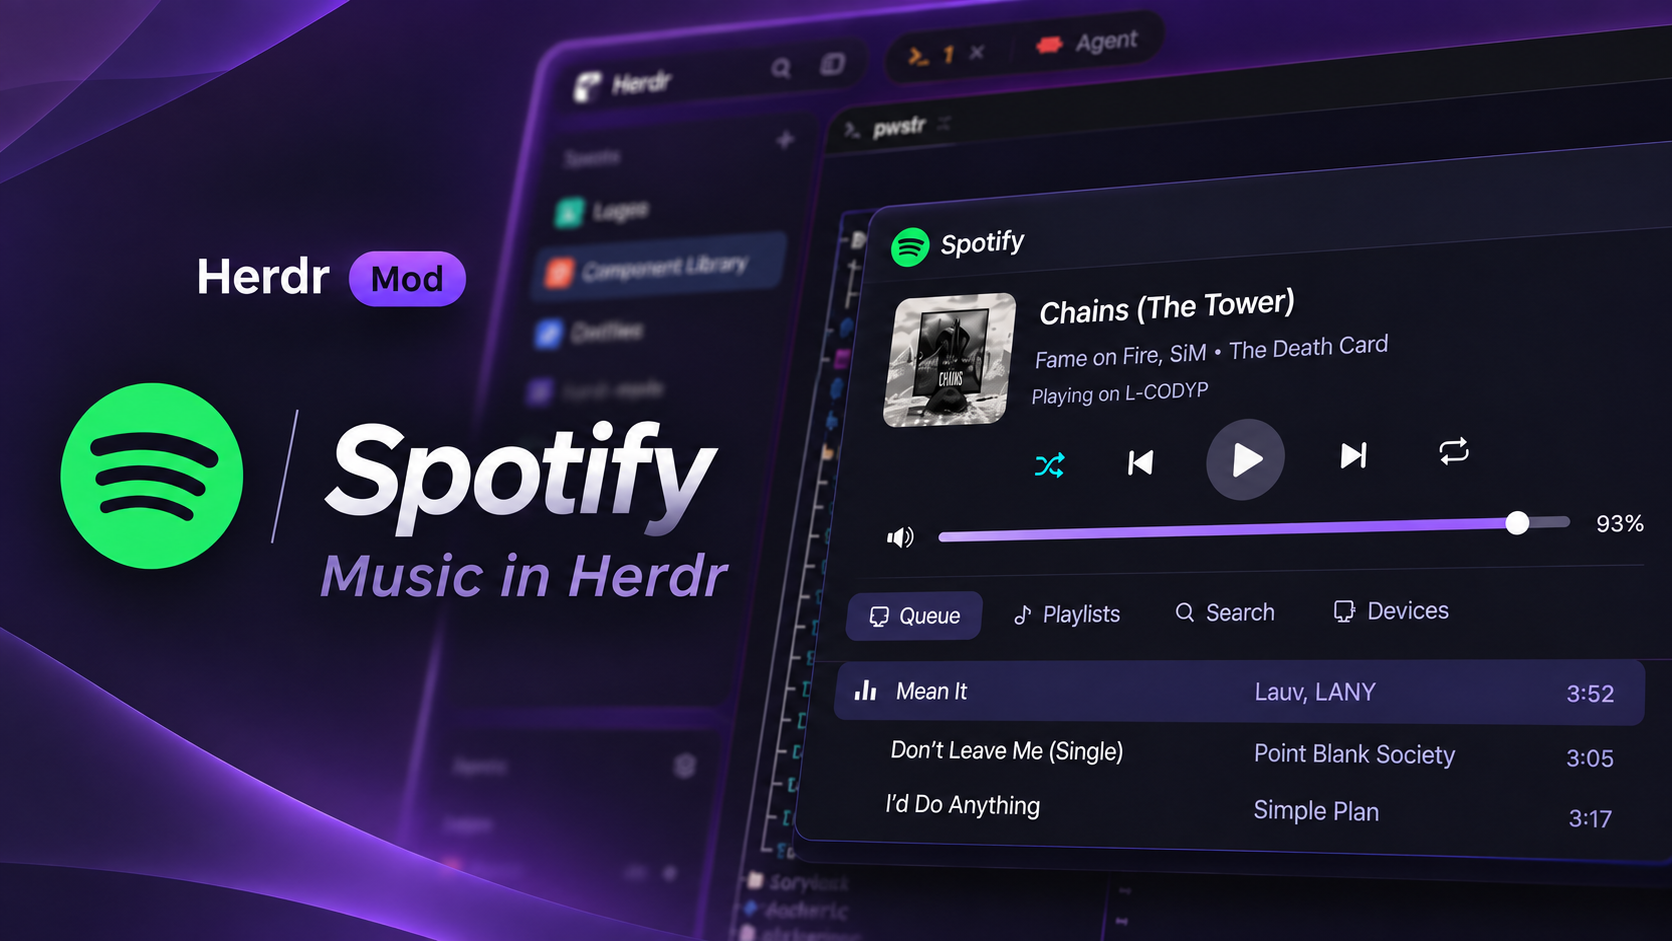
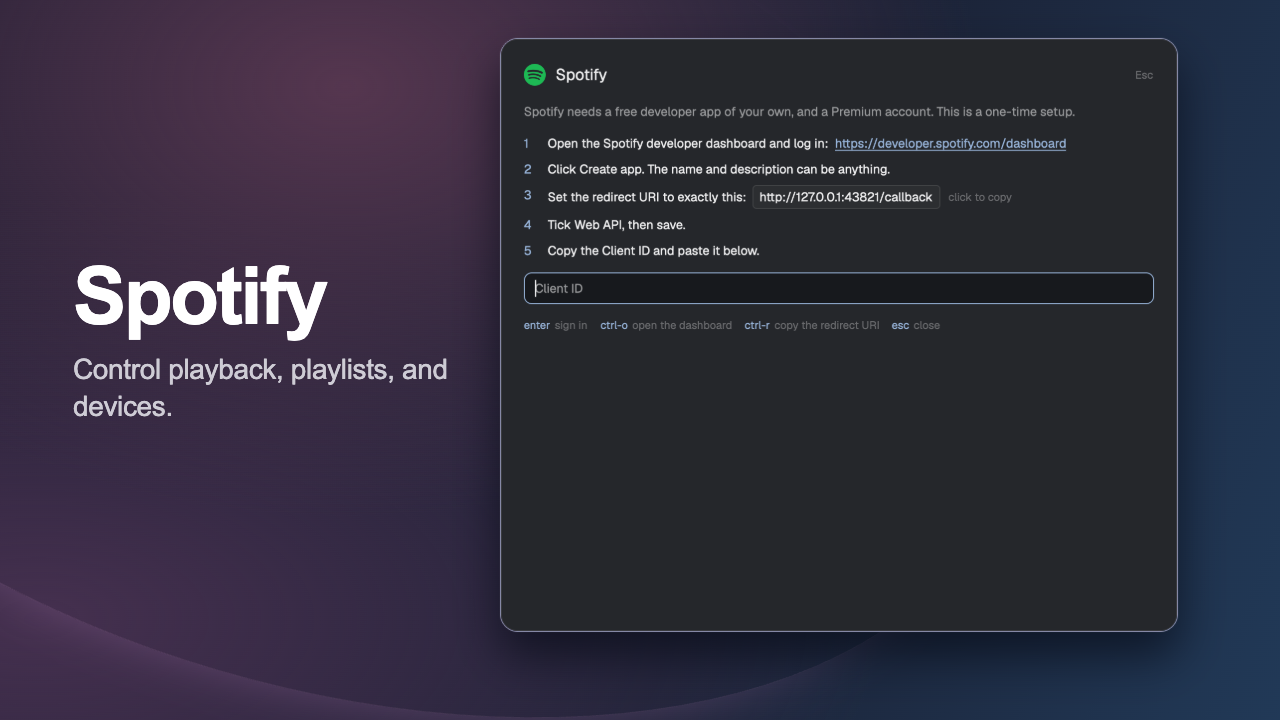
Standardize mod gallery thumbnails using approved reference

diff --git a/gallery/index.html b/gallery/index.html
@@ -1,0 +1,1 @@
+<!doctype html><html lang="en"><meta charset="utf-8"><title>Gallery thumbnail review</title><style>body{margin:32px;background:#101522;color:#eee;font:16px Arial}main{display:grid;grid-template-columns:repeat(2,minmax(0,1fr));gap:24px}a{color:inherit;text-decoration:none}img{width:100%;display:block;border-radius:10px}span{display:block;padding:10px 0}@media(max-width:800px){main{grid-template-columns:1fr}}</style><h1>Gallery thumbnail review</h1><p>1280 × 720. Click any preview to inspect its full size. Git Good and Branch are unchanged.</p><main><a href="../jump/thumbnail.png"><img src="../jump/thumbnail.png" alt="Jump"><span>Jump</span></a><a href="../run/thumbnail.png"><img src="../run/thumbnail.png" alt="Run"><span>Run</span></a><a href="../islands/thumbnail.png"><img src="../islands/thumbnail.png" alt="Islands"><span>Islands</span></a><a href="../tourist/thumbnail.png"><img src="../tourist/thumbnail.png" alt="Tourist"><span>Tourist</span></a><a href="../zen/thumbnail.png"><img src="../zen/thumbnail.png" alt="Zen"><span>Zen</span></a><a href="../spotify/thumbnail.png"><img src="../spotify/thumbnail.png" alt="Spotify"><span>Spotify</span></a><a href="../portal/thumbnail.png"><img src="../portal/thumbnail.png" alt="Portal"><span>Portal</span></a><a href="../syntax/thumbnail.png"><img src="../syntax/thumbnail.png" alt="Practice Range"><span>Practice Range</span></a><a href="../tutor/thumbnail.png"><img src="../tutor/thumbnail.png" alt="Tutor"><span>Tutor</span></a><a href="../vim-docs/thumbnail.png"><img src="../vim-docs/thumbnail.png" alt="Vim Docs"><span>Vim Docs</span></a><a href="../tickets/thumbnail.png"><img src="../tickets/thumbnail.png" alt="Tickets"><span>Tickets</span></a></main></html>

diff --git a/gallery/template.html b/gallery/template.html
@@ -1,0 +1,7 @@
+<!doctype html><html lang="en"><meta charset="utf-8"><title>Mod gallery thumbnail</title>
+<style>
+*{box-sizing:border-box}html,body{margin:0;width:1280px;height:720px;overflow:hidden}body{font-family:Arial,Helvetica,sans-serif;color:#fff;background:radial-gradient(ellipse at 27% 12%,#55364f 0%,transparent 48%),radial-gradient(ellipse at 3% 86%,#45304f 0%,transparent 48%),linear-gradient(110deg,#201e32 0%,#1b2236 58%,#213957 100%)}
+body:before{content:"";position:absolute;width:1450px;height:850px;left:-410px;top:-170px;border-radius:50%;border-bottom:1px solid #b483b01f;box-shadow:0 22px 45px -25px #c58ccc44;transform:rotate(18deg);pointer-events:none}
+.copy{position:absolute;left:73px;top:340px;width:390px;transform:translateY(-50%)}h1{margin:0 0 14px;font-size:80px;line-height:1.04;letter-spacing:-2.6px;font-weight:700}p{margin:0;font-size:28px;line-height:1.3;letter-spacing:-.35px;color:#ceccd5}.stage{position:absolute;left:500px;top:37px;width:678px;height:596px;display:flex;align-items:center;justify-content:center}.shot{display:block;max-width:100%;max-height:100%;object-fit:contain;border:1px solid #8588a5;border-radius:18px;box-shadow:0 24px 45px #050914a6,0 0 0 1px #ffffff0b}
+</style>
+<div class="copy"><h1 id="title"></h1><p id="description"></p></div><div class="stage"><img class="shot" alt="Actual mod interface"></div>

diff --git a/gallery/INVENTORY.md b/gallery/INVENTORY.md
@@ -1,0 +1,32 @@
+# Gallery thumbnail inventory
+
+The supplied approved reference is preserved as `reference.jpg`. Branch and Git Good are unchanged. Git Good has no source folder in this checkout.
+
+| Mod | Previous gallery assets | Screenshot source |
+| --- | --- | --- |
+| Branch | `branch/preview.png`, `branch/thumbnail.png` | Already approved. Unchanged. |
+| Jump | `jump/preview.png` | Native space and tab picker |
+| Run | `run/preview.png` | Native process list with a running Storybook process |
+| Islands | `islands/preview.png` | Native Islands layout, cropped below the brand row |
+| Tourist | `tourist/preview.png` | Native tour setup for this repository |
+| Zen | `zen/preview.png`, `zen/thumbnail-v6.png` | Native Islands layout with Zen enabled |
+| Spotify | `spotify/preview.png`, `spotify/thumbnail.png` | Native sign-in setup. No account connected. |
+| Portal | `portal/preview.png`, `portal/thumbnail.png` | Native local listening-process list |
+| Practice Range | None | Native initial setup |
+| Tutor | None | Native course setup. No course generated. |
+| Vim Docs | `vim-docs/preview.png`, `vim-docs/thumbnail.png` | Native searchable command reference |
+| Tickets | None | Native empty board from `tickets-tourist-wip` |
+
+Every updated mod has a matching `preview.png` and `thumbnail.png` at 1280 × 720. Existing tracked alternate thumbnail names also receive the new image. The six `islands-*` implementation mods are presented together as Islands. `kit` is shared source. `personal-sync/usage-limits` explicitly excludes itself from gallery submission.
+
+This branch is based on main. Tickets is present in the user's work branch, so only its gallery assets are added here. Its implementation stays on that work branch. Existing untracked thumbnail experiments in the original checkout are untouched.
+
+`gallery/sources/*.png` are cropped native captures, with no repainted UI. Screens were captured in a temporary Herdr home except Jump and Run, which were captured from the installed app. Native key legends and control icons remain inside the screenshots. No promotional branding, badges, icons, key callouts, or slogans were added.
+
+The shared composition is in `template.html`. Titles, descriptions, prior assets, and screen states are in `mods.json`. To reproduce with Playwright and Chrome installed:
+
+```sh
+node scripts/render-thumbnails.mjs
+```
+
+An existing installation can be selected with `PLAYWRIGHT_MODULE`. `BROWSER_CHANNEL` defaults to `chrome`. Open `index.html` for every full-size preview, or `preview.png` for the contact sheet.
